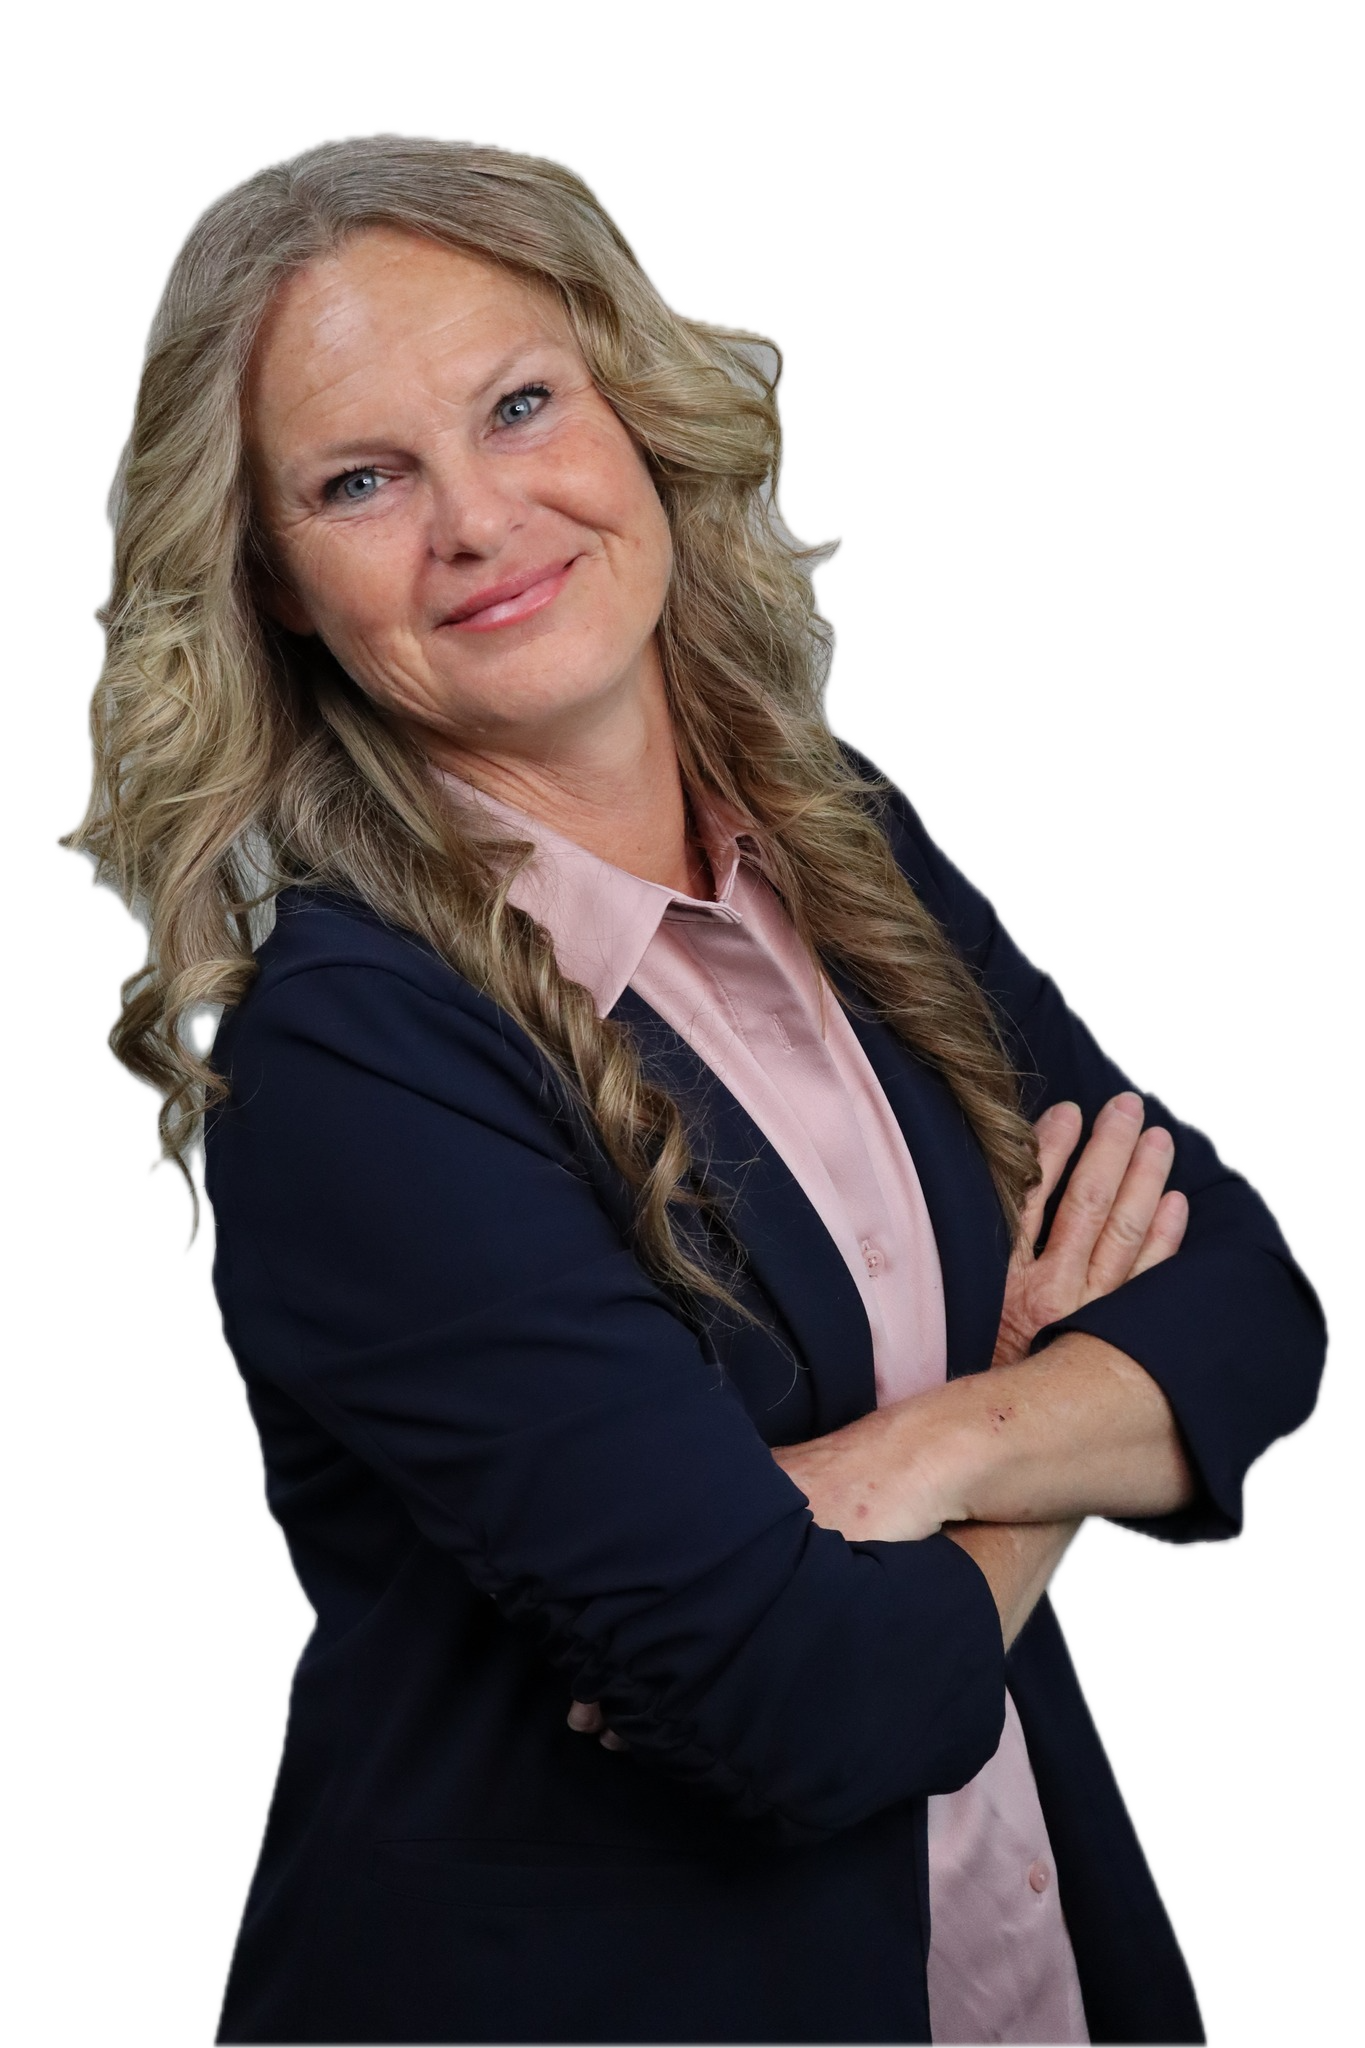
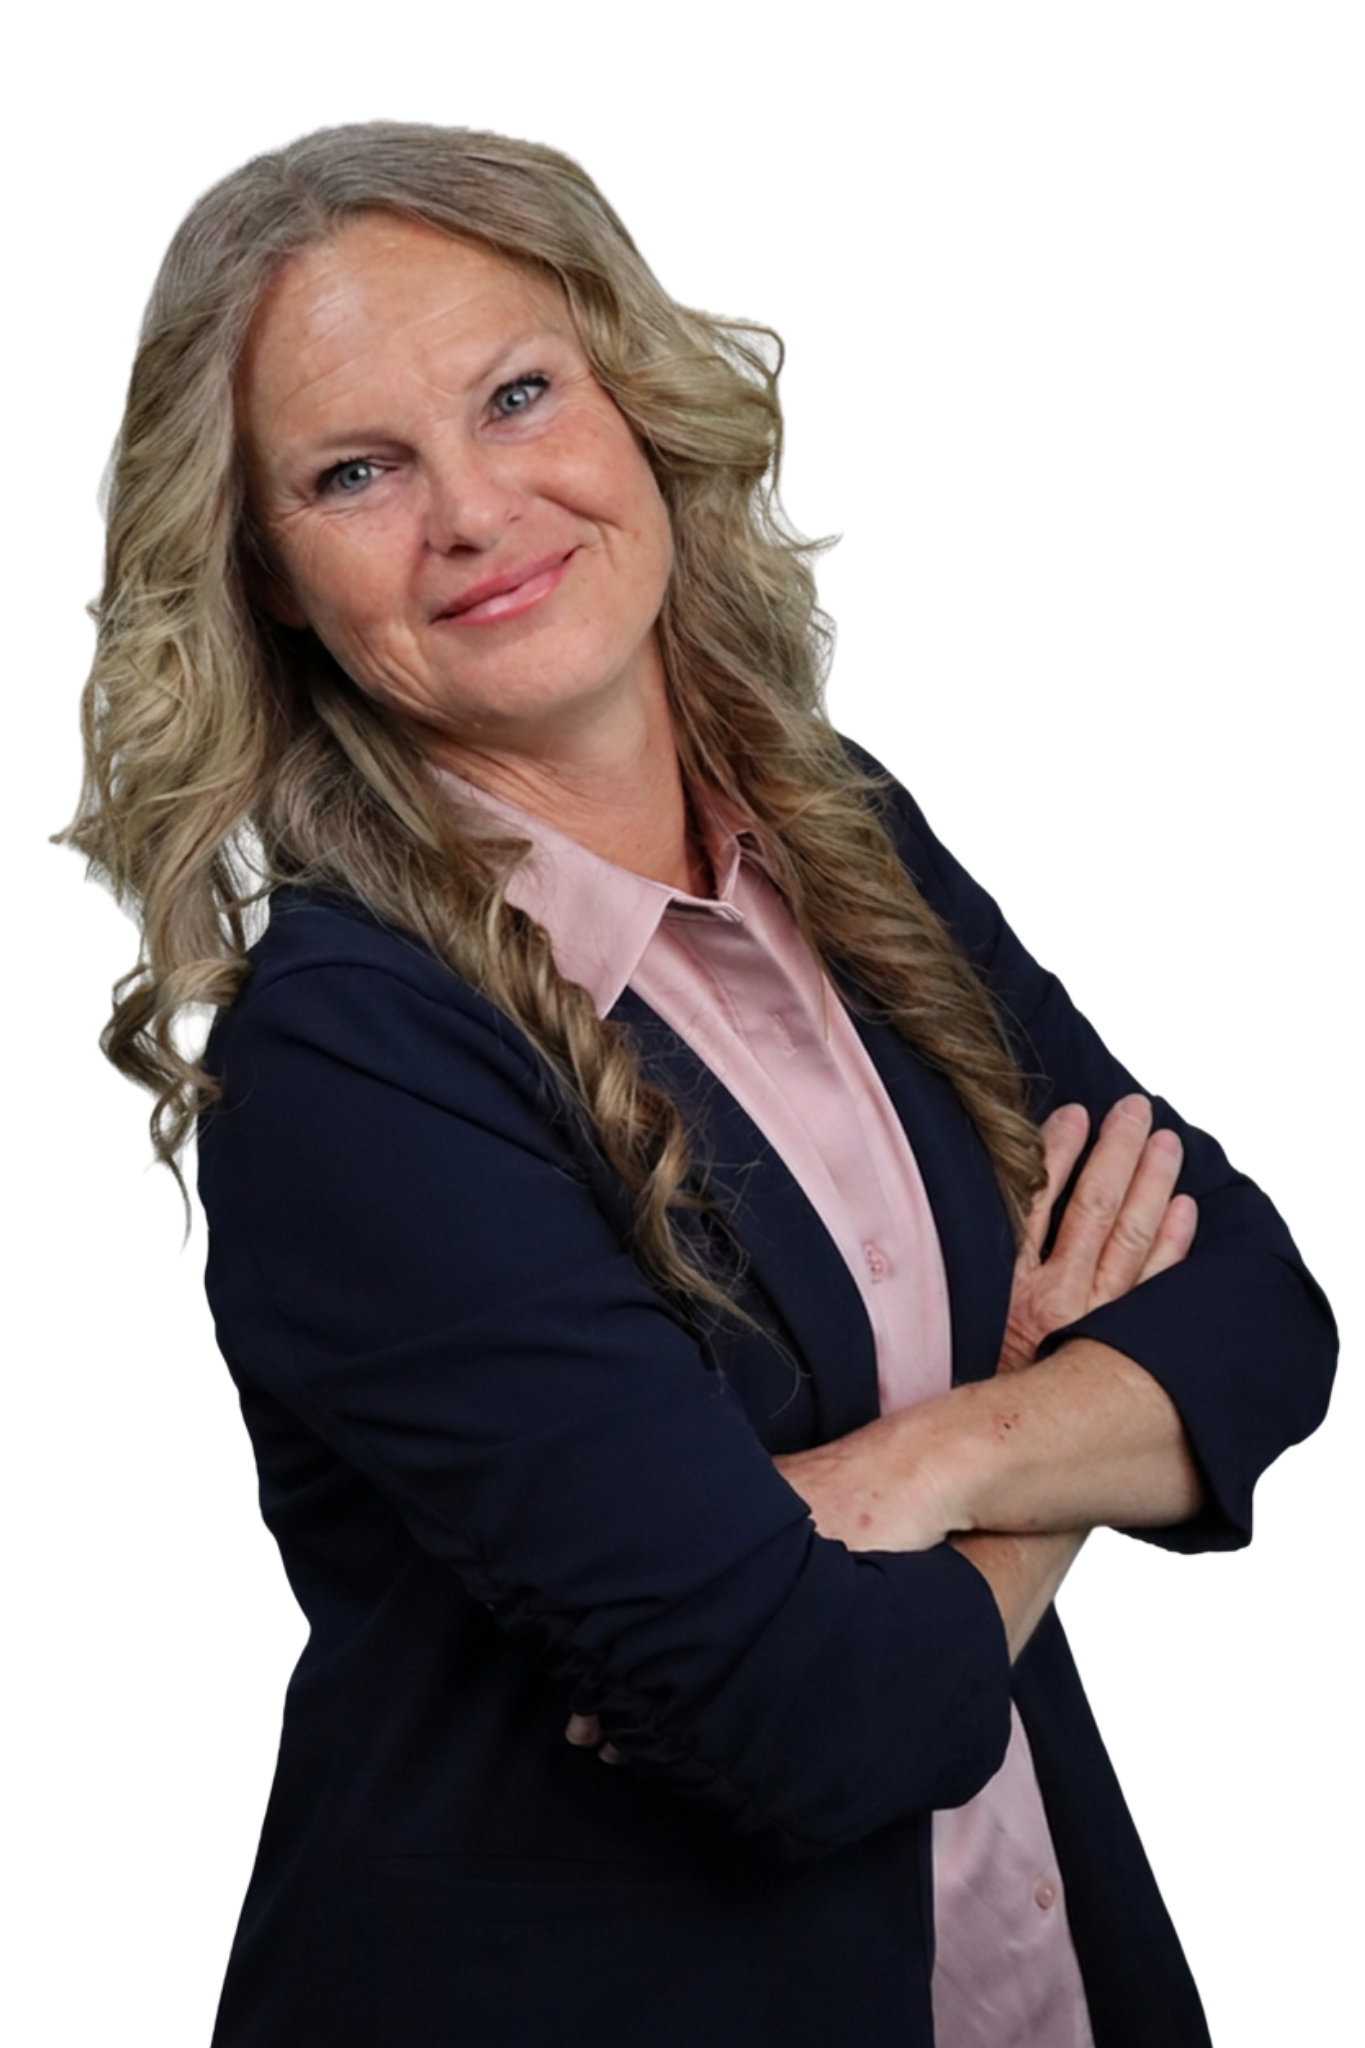
Homepage redesign review build with lead capture and premium branding

diff --git a/src/App.jsx b/src/App.jsx
@@ -13,6 +13,16 @@ const ASSETS = {
   facebook: `${BASE}facebook.png`,
   instagram: `${BASE}instagram.png`,
   youtube: `${BASE}youtube.png`,
+  linkedin: `${BASE}linkedin.png`,
+  handshakeIcon: `${BASE}handshake-icon.png`,
+  marketingIcon: `${BASE}marketing-icon.png`,
+  communicationIcon: `${BASE}communication-icon.png`,
+  marketIcon: `${BASE}market-icon.png`,
+  processAnalyze: `${BASE}process-analyze.png`,
+  processStrategize: `${BASE}process-strategize.png`,
+  processMarket: `${BASE}process-market.png`,
+  processNegotiate: `${BASE}process-negotiate.png`,
+  processSold: `${BASE}process-sold.png`,
 };
 
 const phone = "(251) 895-9322";
@@ -23,10 +33,12 @@ function cx(...classes) {
 }
 
 function CTA({ children, outline = false, onClick, className = "" }) {
+  const handleClick = onClick || (() => window.dispatchEvent(new CustomEvent("openLeadPopup")));
+
   return (
     <button
       type="button"
-      onClick={onClick}
+      onClick={handleClick}
       className={cx(
         "rounded-md px-6 py-3 text-sm font-semibold uppercase tracking-wide transition",
         outline
@@ -37,6 +49,33 @@ function CTA({ children, outline = false, onClick, className = "" }) {
     >
       {children}
     </button>
+  );
+}
+
+function SocialSidebar() {
+  const socials = [
+    { icon: ASSETS.facebook, alt: "Facebook", href: "#" },
+    { icon: ASSETS.instagram, alt: "Instagram", href: "#" },
+    { icon: ASSETS.youtube, alt: "YouTube", href: "#" },
+    { icon: ASSETS.linkedin, alt: "LinkedIn", href: "#" },
+  ];
+
+  return (
+    <div className="fixed left-4 top-1/2 z-[60] hidden -translate-y-1/2 flex-col gap-3 lg:flex">
+      {socials.map((social) => (
+        <a
+          key={social.alt}
+          href={social.href}
+          className="group flex h-14 w-14 items-center justify-center rounded-full border border-white/15 bg-black/80 shadow-xl backdrop-blur transition hover:scale-105 hover:border-red-500 hover:bg-red-600"
+        >
+          <img
+            src={social.icon}
+            alt={social.alt}
+            className="h-6 w-6 object-contain brightness-0 invert transition group-hover:brightness-0 group-hover:invert"
+          />
+        </a>
+      ))}
+    </div>
   );
 }
 
@@ -62,13 +101,13 @@ function TopBar({ onOpen }) {
 function Header({ page, setPage }) {
   return (
     <header className="sticky top-0 z-50 border-b border-white/10 bg-black text-white shadow-xl">
-      <div className="mx-auto flex h-[120px] max-w-7xl items-center justify-between px-5">
+      <div className="mx-auto flex h-[120px] max-w-7xl items-center justify-between gap-10 px-5">
         <button type="button" onClick={() => setPage("home")} className="flex shrink-0 items-center gap-4">
           <img src={ASSETS.logo} alt="The Rowe Report" className="h-[300px] w-auto object-contain" />
           <img src={ASSETS.kw} alt="Keller Williams Mobile" className="h-[75px] w-auto object-contain" />
         </button>
 
-        <nav className="hidden items-center gap-7 font-display text-[17px] uppercase tracking-[0.08em] lg:flex">
+        <nav className="hidden items-center gap-8 font-display text-[17px] uppercase tracking-[0.08em] lg:flex xl:gap-10">
           {navItems.map((item) => {
             const key = item.toLowerCase();
             const active = page === key;
@@ -88,7 +127,7 @@ function Header({ page, setPage }) {
           })}
         </nav>
 
-        <CTA onClick={() => setPage("resources")}>Get Your Rowe Report</CTA>
+        <div className="ml-16 shrink-0"><CTA onClick={() => setPage("resources")}>Get Your Rowe Report</CTA></div>
       </div>
     </header>
   );
@@ -96,17 +135,33 @@ function Header({ page, setPage }) {
 
 function IconBlock({ icon, title, text, dark = false }) {
   return (
-    <div className={cx("px-4 py-4 text-center md:border-r last:border-r-0", dark ? "border-white/10" : "border-neutral-200")}>
-      <div className="mx-auto mb-2 flex h-12 w-12 items-center justify-center text-4xl text-red-600">{icon}</div>
-      <h3 className="font-display text-[18px] font-semibold uppercase leading-tight tracking-tight">{title}</h3>
-      <p className={cx("mx-auto mt-1.5 max-w-[170px] text-[13px] leading-5", dark ? "text-white/75" : "text-neutral-700")}>{text}</p>
+    <div
+      className={cx(
+        "px-4 py-4 text-center md:border-r last:border-r-0",
+        dark ? "border-white/10" : "border-neutral-200"
+      )}
+    >
+      <div className="mx-auto mb-2 flex h-12 w-12 items-center justify-center text-red-600">
+        {icon}
+      </div>
+      <h3 className="font-display text-[18px] font-semibold uppercase leading-tight tracking-tight">
+        {title}
+      </h3>
+      <p
+        className={cx(
+          "mx-auto mt-1.5 max-w-[170px] text-[13px] leading-5",
+          dark ? "text-white/75" : "text-neutral-700"
+        )}
+      >
+        {text}
+      </p>
     </div>
   );
 }
 
 function FormPanel({ title, button = "Get My Free Report", dark = true }) {
   const words = title.split(" ");
-  const fields = ["First Name", "Last Name", "Email Address", "Phone Number", "Property Address"];
+  const fields = ["Name", "Phone Number", "Email Address", "Property Address"];
 
   return (
     <div className={cx("rounded-lg p-7 shadow-2xl", dark ? "bg-black text-white" : "bg-white text-black")}>
@@ -125,7 +180,12 @@ function FormPanel({ title, button = "Get My Free Report", dark = true }) {
             placeholder={field}
           />
         ))}
-        <CTA className="w-full">{button}</CTA>
+        <textarea
+          className="min-h-28 rounded border border-neutral-300 bg-white px-4 py-3 text-sm text-black outline-none"
+          placeholder="How can Tina help?"
+        />
+        <CTA className="w-full" onClick={() => window.dispatchEvent(new CustomEvent("submitLeadForm"))}>{button}</CTA>
+        <button type="button" className={cx("text-center text-sm underline", dark ? "text-white/75" : "text-neutral-500")}>No thanks, continue browsing</button>
         <p className={cx("text-center text-xs", dark ? "text-white/70" : "text-neutral-500")}>🔒 We respect your privacy. No spam, ever.</p>
       </div>
     </div>
@@ -158,7 +218,7 @@ function Hero({ title, redTitle, text, quote, button = "Get Your Home Value", fo
           <div className="mt-4 h-1 w-24 bg-red-600" />
           <p className="mt-4 max-w-[500px] text-[17px] font-medium leading-7 text-white/90">{text}</p>
           {quote ? (
-            <div className="absolute right-4 top-36 hidden max-w-[260px] rotate-[-2deg] xl:block">
+            <div className="absolute right-8 top-40 hidden max-w-[240px] rotate-[-2deg] xl:block">
               <p className="font-hand text-[35px] leading-[1.15] text-white drop-shadow-[0_2px_6px_rgba(0,0,0,0.9)]">
                 I don’t just<br />
                 list homes...<br />
@@ -171,14 +231,14 @@ function Hero({ title, redTitle, text, quote, button = "Get Your Home Value", fo
           ) : null}
           <div className="mt-6 flex flex-wrap items-center gap-4">
             <CTA>{button}</CTA>
-            <CTA outline>Get Your Free Rowe Report</CTA>
+            <CTA outline onClick={() => window.dispatchEvent(new CustomEvent("navigatePage", { detail: "resources" }))}>Get Your Free Rowe Report</CTA>
           </div>
           <p className="mt-5 text-sm text-white/80">Or call/text me directly</p>
           <p className="text-3xl font-semibold tracking-tight"><a href="tel:2518959322">☎ {phone}</a></p>
         </div>
 
         <div className="relative hidden h-[520px] lg:block">
-          <img src={ASSETS.tina} alt="Tina Rowe" className="absolute bottom-[-40px] right-2 h-[620px] w-auto object-contain object-bottom drop-shadow-2xl" />
+          <img src={ASSETS.tina} alt="Tina Rowe" className="absolute bottom-[-40px] right-56 h-[620px] w-auto object-contain object-bottom drop-shadow-2xl" />
           {form ? (
             <div className="absolute right-0 top-5 w-[360px]">
               <FormPanel title={form} button="Send Me Homes That Match" />
@@ -191,16 +251,29 @@ function Hero({ title, redTitle, text, quote, button = "Get Your Home Value", fo
 }
 
 function ProcessSection() {
-  const steps = [["1", "Analyze"], ["2", "Strategize"], ["3", "Market"], ["4", "Negotiate"], ["5", "Sold"]];
+  const steps = [
+    [ASSETS.processAnalyze, "Analyze"],
+    [ASSETS.processStrategize, "Strategize"],
+    [ASSETS.processMarket, "Market"],
+    [ASSETS.processNegotiate, "Negotiate"],
+    [ASSETS.processSold, "Sold"],
+  ];
+
   return (
     <section className="bg-neutral-50 py-14">
       <div className="mx-auto max-w-7xl px-6 text-center">
         <h2 className="font-display text-4xl font-semibold uppercase">
           My <span className="text-red-600">Proven</span> Process to Get Your Home Sold
         </h2>
+
         <div className="mt-8 grid gap-5 md:grid-cols-5">
-          {steps.map(([num, label]) => (
-            <IconBlock key={label} icon={num} title={label} text="Clear guidance and expert execution every step of the way." />
+          {steps.map(([icon, label]) => (
+            <IconBlock
+              key={label}
+              icon={<img src={icon} alt={label} className="h-16 w-16 object-contain" />}
+              title={label}
+              text="Clear guidance and expert execution every step of the way."
+            />
           ))}
         </div>
       </div>
@@ -261,7 +334,7 @@ function Footer({ setPage }) {
         <div>
           <h4 className="font-semibold uppercase">Follow Me</h4>
           <div className="mt-4 flex gap-4">
-            {[ASSETS.facebook, ASSETS.instagram, ASSETS.youtube].map((src) => (
+            {[ASSETS.facebook, ASSETS.instagram, ASSETS.youtube, ASSETS.linkedin].map((src) => (
               <img key={src} src={src} alt="social" className="h-9 w-9 rounded-full border border-white/30 p-2" />
             ))}
           </div>
@@ -272,6 +345,14 @@ function Footer({ setPage }) {
 }
 
 function HomePage({ setPage }) {
+  const iconStyle = {
+    fill: "none",
+    stroke: "currentColor",
+    strokeWidth: 1.85,
+    strokeLinecap: "round",
+    strokeLinejoin: "round",
+  };
+
   return (
     <>
       <Hero
@@ -284,16 +365,36 @@ function HomePage({ setPage }) {
 
       <section className="bg-[#07111b] py-4 text-white">
         <div className="mx-auto grid max-w-7xl gap-2 px-6 md:grid-cols-4">
-          <IconBlock dark icon="🎯" title="Strategic Marketing" text="Your home seen by the right buyers." />
-          <IconBlock dark icon="💬" title="Clear Communication" text="You're always informed." />
-          <IconBlock dark icon="📊" title="Local Market Expertise" text="In-depth knowledge of Mobile." />
-          <IconBlock dark icon="🤝" title="Results-Driven Approach" text="Proven strategies that get homes SOLD." />
+          <IconBlock
+            dark
+            icon={<img src={ASSETS.marketingIcon} alt="Strategic Marketing" className="h-14 w-14 object-contain" />}
+            title="Strategic Marketing"
+            text="Your home seen by the right buyers."
+          />
+          <IconBlock
+            dark
+            icon={<img src={ASSETS.communicationIcon} alt="Clear Communication" className="h-14 w-14 object-contain" />}
+            title="Clear Communication"
+            text="You're always informed."
+          />
+          <IconBlock
+            dark
+            icon={<img src={ASSETS.marketIcon} alt="Local Market Expertise" className="h-14 w-14 object-contain" />}
+            title="Local Market Expertise"
+            text="In-depth knowledge of Mobile."
+          />
+          <IconBlock
+            dark
+            icon={<img src={ASSETS.handshakeIcon} alt="Handshake" className="h-14 w-14 object-contain" />}
+            title="Results-Driven Approach"
+            text="Proven strategies that get homes SOLD."
+          />
         </div>
       </section>
 
       <section className="bg-white py-12">
         <div className="mx-auto grid max-w-7xl gap-8 px-6 lg:grid-cols-[.72fr_1.02fr_.86fr] lg:items-center">
-          <img src={ASSETS.guide} alt="Rowe Report" className="max-h-[380px] justify-self-center rounded-lg object-contain shadow-2xl" />
+          <img src={ASSETS.van} alt="The Rowe Report Van" className="max-h-[380px] justify-self-center rounded-lg object-contain" />
           <div>
             <h2 className="font-display text-[2.65rem] font-semibold uppercase leading-[0.97]">
               Before You List Again... <br />
@@ -357,7 +458,7 @@ function HomePage({ setPage }) {
           </div>
           <div className="flex flex-col gap-3">
             <CTA>Schedule a Call With Tina</CTA>
-            <CTA outline>Get The Rowe Report First</CTA>
+            <CTA outline onClick={() => setPage("resources")}>Get The Rowe Report First</CTA>
             <p className="text-3xl font-semibold"><a href="tel:2518959322">☎ {phone}</a></p>
           </div>
         </div>
@@ -535,9 +636,24 @@ export default function MovingInMobileMockup() {
     setShowPopup(false);
   };
 
-  // ensure popup does NOT fire instantly and only after delay
   useEffect(() => {
-    setShowPopup(false); // explicit reset on mount
+    setShowPopup(false);
+
+    const handleOpenLeadPopup = () => openLeadPopup();
+    window.addEventListener("openLeadPopup", handleOpenLeadPopup);
+
+    const handleNavigatePage = (event) => {
+      if (event.detail) {
+        setPage(event.detail);
+        window.scrollTo({ top: 0, behavior: "smooth" });
+      }
+    };
+    window.addEventListener("navigatePage", handleNavigatePage);
+
+    const handleSubmitLeadForm = () => {
+      alert("Thank you! Tina will reach out soon.");
+    };
+    window.addEventListener("submitLeadForm", handleSubmitLeadForm);
 
     const delay = 6500;
     const timer = window.setTimeout(() => {
@@ -546,7 +662,12 @@ export default function MovingInMobileMockup() {
       }
     }, delay);
 
-    return () => window.clearTimeout(timer);
+    return () => {
+      window.clearTimeout(timer);
+      window.removeEventListener("openLeadPopup", handleOpenLeadPopup);
+      window.removeEventListener("navigatePage", handleNavigatePage);
+      window.removeEventListener("submitLeadForm", handleSubmitLeadForm);
+    };
   }, [page]);
 
   const pages = {
@@ -572,17 +693,22 @@ export default function MovingInMobileMockup() {
         <div className="fixed inset-0 z-[100] flex items-center justify-center bg-black/20 px-4 backdrop-blur-[1px]">
           <div className="relative max-w-xl rounded-lg bg-white p-8 text-center shadow-2xl">
             <button type="button" onClick={closeLeadPopup} className="absolute right-4 top-3 text-2xl">×</button>
-            <h2 className="font-display text-4xl uppercase">Get Mobile Homes <span className="text-red-600">Before Everyone Else</span></h2>
-            <p className="mt-3 text-neutral-600">Sign up for listing alerts, price drops, and local market updates from Tina.</p>
-            <div className="mt-5 grid gap-3 sm:grid-cols-[1fr_auto]">
-              <input className="rounded border p-3" placeholder="Email or phone" />
-              <CTA>Send Me Homes</CTA>
+            <h2 className="font-display text-4xl uppercase">Let Tina Help With <span className="text-red-600">Your Next Move</span></h2>
+            <p className="mt-3 text-neutral-600">Tell Tina what you need — home value, Rowe Report, listings, selling strategy, or general questions.</p>
+            <div className="mt-5 grid gap-3 text-left">
+              <input className="rounded border p-3" placeholder="Name" />
+              <input className="rounded border p-3" placeholder="Phone Number" />
+              <input className="rounded border p-3" placeholder="Email Address" />
+              <input className="rounded border p-3" placeholder="Property Address" />
+              <textarea className="min-h-28 rounded border p-3" placeholder="Additional details / How can Tina help?" />
+              <CTA className="w-full">Submit My Information</CTA>
             </div>
             <button type="button" onClick={closeLeadPopup} className="mt-4 text-sm underline">No thanks, continue browsing</button>
           </div>
         </div>
       ) : null}
 
+      <SocialSidebar />
       <TopBar onOpen={openLeadPopup} />
       <Header page={page} setPage={setPage} />
       {pages[page] || pages.home}
